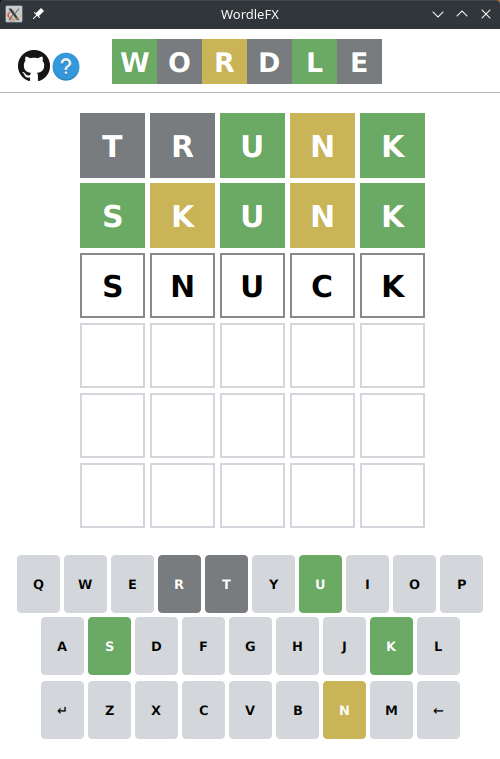
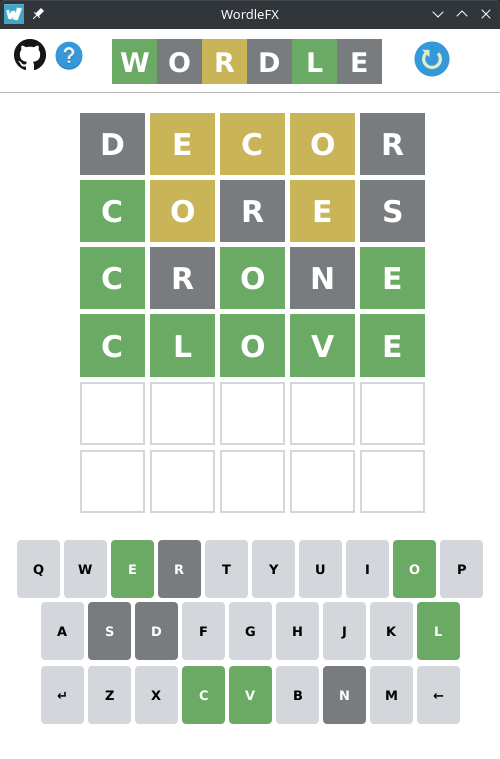
added restart button in top panel

diff --git a/src/main/java/com/example/javafxwordle/ScoreWindow.java b/src/main/java/com/example/javafxwordle/ScoreWindow.java
@@ -6,6 +6,7 @@ import javafx.geometry.Pos;
 import javafx.scene.Scene;
 import javafx.scene.control.Button;
 import javafx.scene.control.Label;
+import javafx.scene.image.Image;
 import javafx.scene.layout.VBox;
 import javafx.stage.Modality;
 import javafx.stage.Stage;
@@ -35,10 +36,10 @@ public class ScoreWindow {
         Label mainLabel = new Label();
         if (guessed) {
             mainLabel.setText("           You won! \n The winning word was");
-            mainLabel.getStyleClass().setAll("lead", "text-success", "big-font");
+            mainLabel.getStyleClass().setAll("lead", "big-font");
         } else {
             mainLabel.setText("           You lost! \n The winning word was");
-            mainLabel.getStyleClass().setAll("lead", "text-warning", "big-font");
+            mainLabel.getStyleClass().setAll("big-font");
         }
         Label winningWordLabel = new Label(winningWord.toUpperCase());
         winningWordLabel.getStyleClass().setAll("h2", "strong");
@@ -69,6 +70,7 @@ public class ScoreWindow {
         scene.getStylesheets()
                 .add(Objects.requireNonNull(ScoreWindow.class.getResource("wordle.css"))
                         .toExternalForm());
+        stage.getIcons().add(new Image(Objects.requireNonNull(ScoreWindow.class.getResourceAsStream("images/icon.png"))));
         stage.setScene(scene);
         stage.showAndWait();
     }

diff --git a/src/main/java/com/example/javafxwordle/MainController.java b/src/main/java/com/example/javafxwordle/MainController.java
@@ -1,10 +1,12 @@
 package com.example.javafxwordle;
 
+import javafx.animation.RotateTransition;
 import javafx.fxml.FXML;
 import javafx.scene.image.ImageView;
 import javafx.scene.input.KeyEvent;
 import javafx.scene.layout.GridPane;
 import javafx.scene.layout.HBox;
+import javafx.util.Duration;
 
 public class MainController {
 
@@ -24,6 +26,8 @@ public class MainController {
     public ImageView githubIcon;
     @FXML
     public HBox titleHBox;
+    @FXML
+    public ImageView restartIcon;
 
     public void createUI() {
         createGrid();
@@ -58,6 +62,15 @@ public class MainController {
 
     public void createTitleHBox() {
         mainHelper.createTitleHBox(titleHBox);
+    }
+
+    public void restart() {
+        RotateTransition rotateTransition = new RotateTransition(Duration.millis(500), restartIcon);
+        rotateTransition.setFromAngle(0);
+        rotateTransition.setToAngle(360);
+        rotateTransition.setOnFinished(ae ->
+                mainHelper.resetGame(gridPane, keyboardRow1, keyboardRow2, keyboardRow3));
+        rotateTransition.play();
     }
 
 }

diff --git a/src/main/java/com/example/javafxwordle/MainApplication.java b/src/main/java/com/example/javafxwordle/MainApplication.java
@@ -32,7 +32,7 @@ public class MainApplication extends Application {
         mainController.getRandomWord();
         mainController.helpIcon.setImage(new Image(Objects.requireNonNull(getClass().getResourceAsStream("images/help.png"))));
         mainController.githubIcon.setImage(new Image(Objects.requireNonNull(getClass().getResourceAsStream("images/github.png"))));
-
+        mainController.restartIcon.setImage(new Image(Objects.requireNonNull(getClass().getResourceAsStream("images/icons8-restart-40.png"))));
         mainController.githubIcon.setOnMouseClicked(me -> getHostServices().showDocument("https://github.com/jpkhawam/WordleFX"));
 
         double screenWidth = Screen.getPrimary().getBounds().getWidth();

diff --git a/src/main/java/com/example/javafxwordle/HelpWindow.java b/src/main/java/com/example/javafxwordle/HelpWindow.java
@@ -5,6 +5,7 @@ import javafx.geometry.Pos;
 import javafx.scene.Scene;
 import javafx.scene.control.Button;
 import javafx.scene.control.Label;
+import javafx.scene.image.Image;
 import javafx.scene.layout.HBox;
 import javafx.scene.layout.VBox;
 import javafx.scene.paint.Paint;
@@ -113,6 +114,8 @@ public class HelpWindow {
         scene.getStylesheets()
                 .add(Objects.requireNonNull(ScoreWindow.class.getResource("wordle.css"))
                         .toExternalForm());
+
+        stage.getIcons().add(new Image(Objects.requireNonNull(HelpWindow.class.getResourceAsStream("images/help.png"))));
         stage.setScene(scene);
         stage.showAndWait();
     }

diff --git a/src/main/java/com/example/javafxwordle/MainHelper.java b/src/main/java/com/example/javafxwordle/MainHelper.java
@@ -294,7 +294,7 @@ public class MainHelper {
         return binarySearch(winningWords, guess) || binarySearch(dictionaryWords, guess);
     }
 
-    private void resetGame(GridPane gridPane, GridPane keyboardRow1, GridPane keyboardRow2,
+    public void resetGame(GridPane gridPane, GridPane keyboardRow1, GridPane keyboardRow2,
                            GridPane keyboardRow3) {
         getRandomWord();
         Label label;
